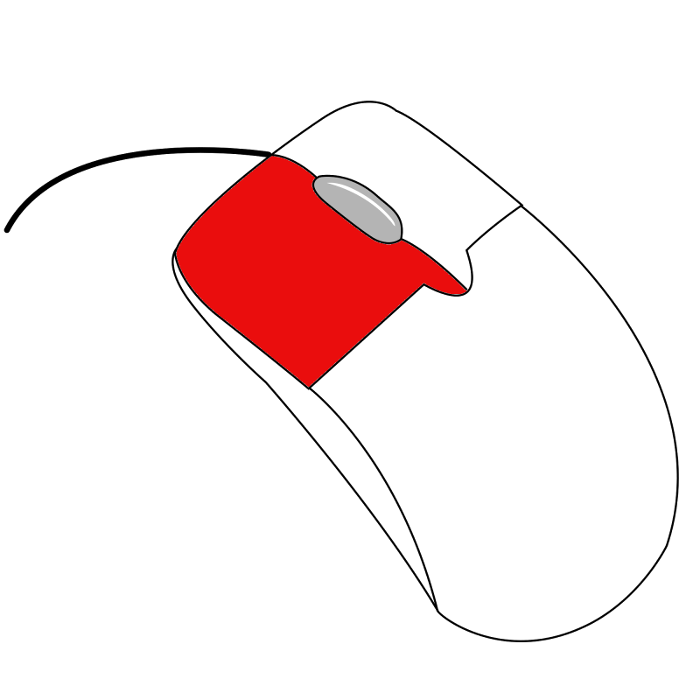
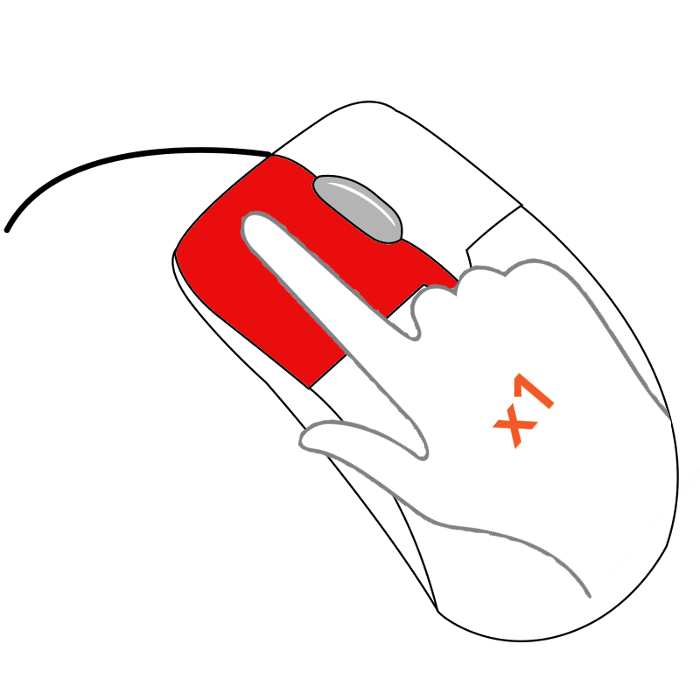
Αλλαγή του σκορ ώστε να μην δείχνει το μέγιστο σκορ αλλά τον αριθμό της τρέχουσας πρόκλησης (challenge)

diff --git a/game.py b/game.py
@@ -8,9 +8,9 @@ from gameclass import GameClass
 
 windowsize = (700,700)
 
-def printScore(screen, cur_score, max_score):
+def printScore(screen, cur_score, cur_item):
     textfont = pygame.font.SysFont("Ubuntu", 30)
-    thetext = textfont.render(u"Σκορ: " + str(cur_score) + "/" + str(max_score), True, (255, 0, 0), (255, 255, 255))
+    thetext = textfont.render(u"Σκορ: " + str(cur_score) + "/" + str(cur_item+1), True, (255, 0, 0), (255, 255, 255))
     screen.blit(thetext, (500, 40))
 
 def main():
@@ -32,14 +32,13 @@ def main():
     screen.blit(mouse_images[mygame.get_item()], (0,0))
 
     cur_score = 0
-    max_score = mygame.get_items_count()
-    printScore(screen, cur_score, max_score)
+    printScore(screen, cur_score, mygame.get_item_index())
 
     endscreenshown = False
 
     while 1:
         pygame.display.update()
-        printScore(screen, cur_score, max_score)
+        printScore(screen, cur_score, mygame.get_item_index())
         for event in pygame.event.get():
             if event.type == QUIT:
                 pygame.quit()

diff --git a/gameclass.py b/gameclass.py
@@ -11,6 +11,9 @@ class GameClass:
     def get_item(self):
         return self.sequence[self.sequence_index]
 
+    def get_item_index(self):
+        return self.sequence_index
+
     def get_next_item(self):
         if self.sequence_index+1 == self.sequence_length:
             self.sequence_index = 0

diff --git a/README.md b/README.md
@@ -1,12 +1,12 @@
 # mouse-training
-Ένα απλό παιχνιδάκι εξοικείωσης με τα τρία πλήκτρα του ποντικιού για μαθητές προσχολικής ηλικίας αλλά και 1ης Δημοτικού.
-Γραμμένο python και pygame.
-Εικονίδια από http://www.flaticon.com/packs/essential-collection
+Ένα απλό παιχνιδάκι εξοικείωσης με τα τρία πλήκτρα του ποντικιού για μαθητές προσχολικής ηλικίας αλλά και 1ης Δημοτικού.<br />
+Γραμμένο python και pygame. <br />
+Εικονίδια από http://www.flaticon.com/packs/essential-collection<br />
+Εικονίδιο χεριού από https://en.wikipedia.org/wiki/Pointing_device_gesture<br />
 
-Todo list
-(*) Εικονίδια για εκκίνηση από την αρχή & έξοδο σε όλη τη διάρκεια του παιχνιδιού
-(*) Να κρύβεται το σκορ όταν πατάω ένα πλήκτρο 
-(*) Δεύτερο επίπεδο όπου θα πρέπει ο δείκτης του ποντικιού να είναι μέσα σε τετράγωνο όταν γίνεται το κλικ
-(*) Τρίτο επίπεδο όπου υπάρχει ακολουθία 2 - 3 - 4 κλικ που θα πρέπει να αναπαράγει ο μαθητής
+Todo list<br />
+(*) Να κρύβεται το σκορ όταν πατάω ένα πλήκτρο<br />
+(*) Δεύτερο επίπεδο όπου θα πρέπει ο δείκτης του ποντικιού να είναι μέσα σε τετράγωνο όταν γίνεται το κλικ<br />
+(*) Τρίτο επίπεδο όπου υπάρχει ακολουθία 2 - 3 - 4 κλικ που θα πρέπει να αναπαράγει ο μαθητής<br />
 
 
